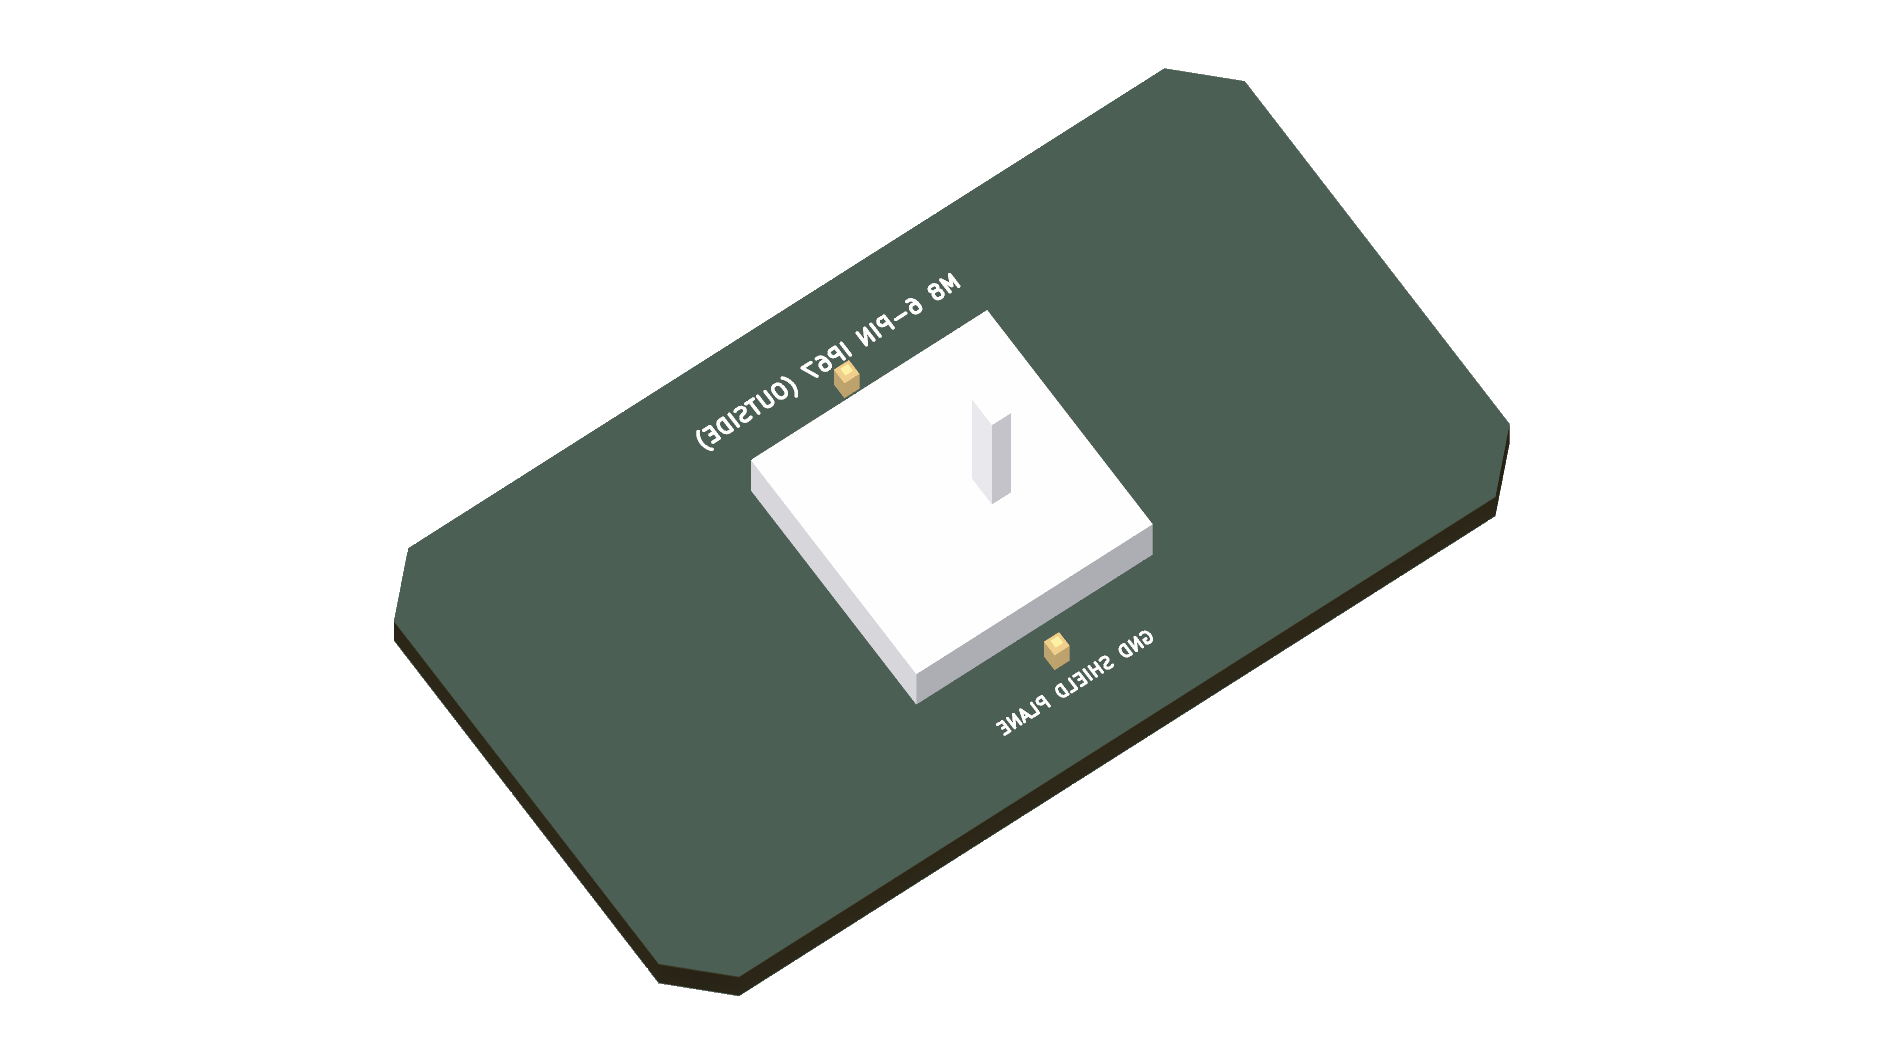
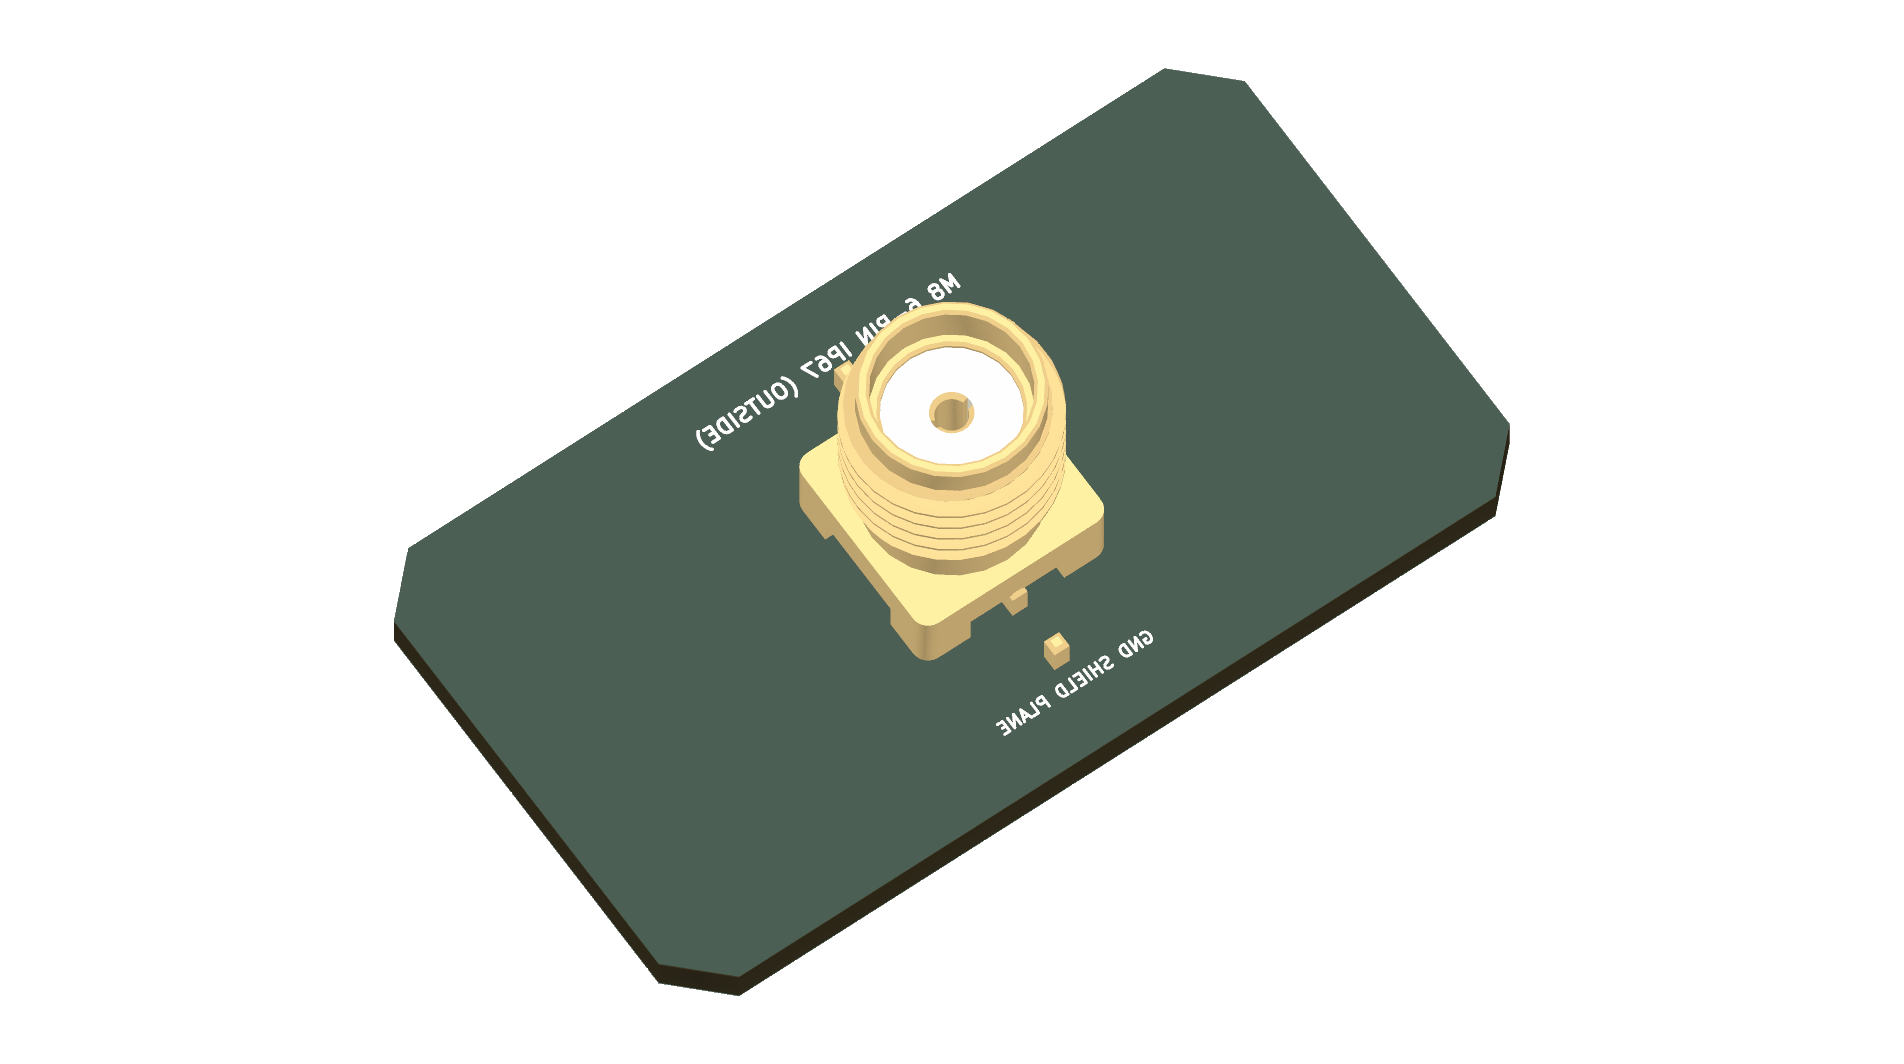
hardware(pod_base): configure centered M8 panel mount receptacle with raised collar on B.Cu and horizontal header on F.Cu

Changed region(s): [[0.3718, 0.2791, 0.6197, 0.6513]]

diff --git a/hardware/scripts/autoplace_pod_base.py b/hardware/scripts/autoplace_pod_base.py
@@ -73,10 +73,10 @@ def generate_pod_base_pcb(pcb_path):
             (1.0, 1.0, 1.0)
         ),
         'J2': (
-            os.path.abspath(os.path.join(os.path.dirname(__file__), '../cad/M8_6Pin_A_Coded_Receptacle.wrl')),
+            '${KICAD10_3DMODEL_DIR}/Connector_Coaxial.3dshapes/SMA_Amphenol_132134-10_Vertical.step',
             (0.0, 0.0, 0.0),
             (0.0, 0.0, 0.0),
-            (393.700787, 393.700787, 393.700787)
+            (1.25, 1.25, 1.25)
         ),
     }
 
